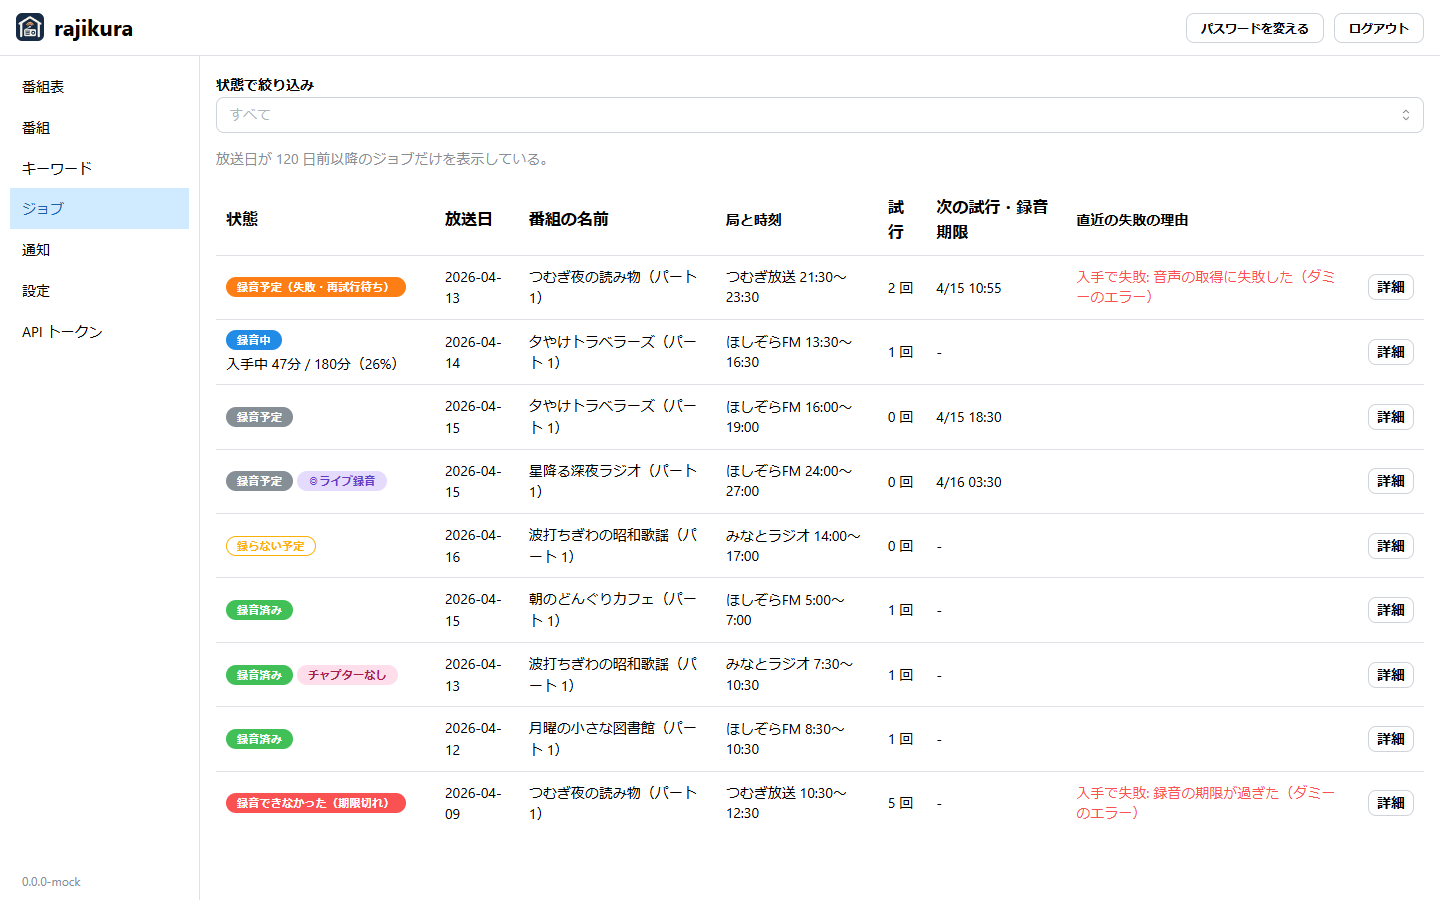
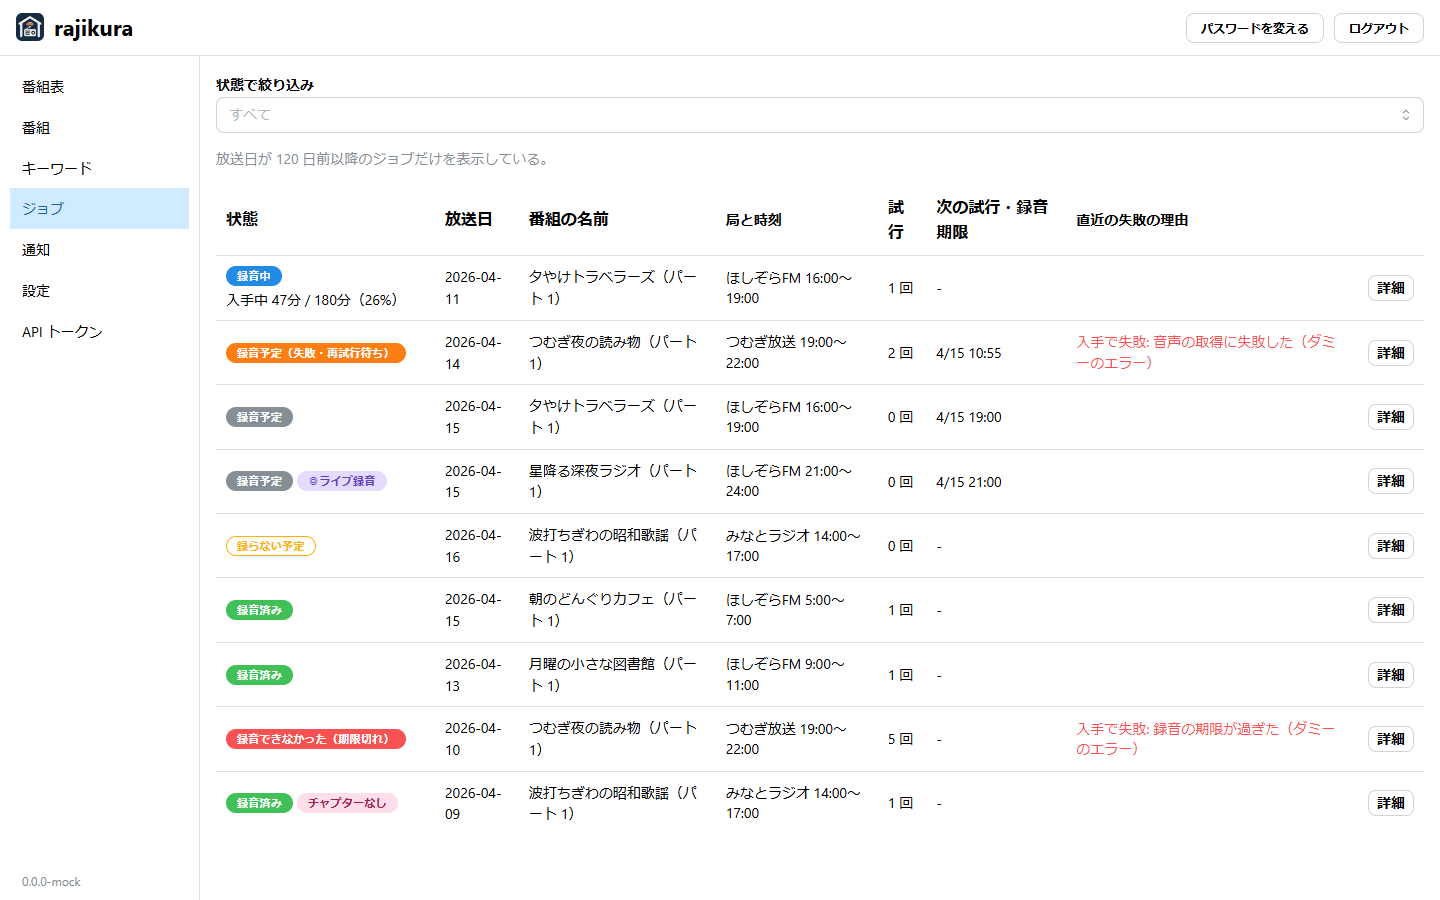
fix: ダミーの通知の応答の形と、番組・ジョブの時刻を番組表に揃える (#7)
- /api/notifications を { notifications: [] } で答え、POST /api/notifications/read だけ何もせず成功で答える
- shows の weekly と next_airing、jobs の枠を、番組表の並びの放送回と同じ局・開始・長さにして画像を撮り直す
- 撮り直しの節を「手元でビルド・テストする」の下へ移す

diff --git a/web/mock/data.ts b/web/mock/data.ts
@@ -98,6 +98,13 @@ export function guideOf(day: string): GuideStation[] {
   });
 }
 
+// 放送日 day（YYYY-MM-DD）の放送日の時刻 hhmm（HH:MM。24:00 以降も書ける）の時刻。番組表の並び（lineups）の時刻と合わせて書く。
+const jst = (day: string, hhmm: string) => {
+  const [h, m] = hhmm.split(":").map(Number);
+  return new Date(new Date(`${day}T00:00:00+09:00`).getTime() + (h * 60 + m) * 60_000).toISOString();
+};
+
+// 番組（shows）の weekly と next_airing、ジョブ（jobs）の stations は、番組表の並び（lineups）の放送回と同じ局・開始時刻・長さにする。
 export const shows: Show[] = [
   {
     name: "朝のどんぐりカフェ",
@@ -105,7 +112,7 @@ export const shows: Show[] = [
     split: "none",
     check_title: true,
     weekly: [{ station: "HOSHIZORA", weekday: 1, start: "05:00" }, { station: "HOSHIZORA", weekday: 3, start: "05:00" }],
-    next_airing: at(60 * 18 + 30),
+    next_airing: jst("2026-04-20", "05:00"),
   },
   {
     name: "月曜の小さな図書館",
@@ -113,7 +120,7 @@ export const shows: Show[] = [
     split: "none",
     check_title: true,
     weekly: [{ station: "HOSHIZORA", weekday: 1, start: "09:00" }],
-    next_airing: at(60 * 24 * 5 - 90),
+    next_airing: jst("2026-04-20", "09:00"),
   },
   {
     name: "夕やけトラベラーズ",
@@ -121,15 +128,15 @@ export const shows: Show[] = [
     split: "join",
     check_title: true,
     weekly: [{ station: "HOSHIZORA", weekday: 3, start: "16:00" }, { station: "HOSHIZORA", weekday: 6, start: "16:00" }],
-    next_airing: at(60 * 5 + 30),
+    next_airing: jst("2026-04-15", "16:00"),
   },
   {
     name: "星降る深夜ラジオ",
     enabled: true,
     split: "none",
     check_title: true,
-    weekly: [{ station: "HOSHIZORA", weekday: 3, start: "00:00" }],
-    next_airing: at(60 * 13 + 30),
+    weekly: [{ station: "HOSHIZORA", weekday: 3, start: "21:00" }],
+    next_airing: jst("2026-04-15", "21:00"),
   },
   {
     name: "波打ちぎわの昭和歌謡",
@@ -137,15 +144,15 @@ export const shows: Show[] = [
     split: "separate",
     check_title: false,
     weekly: [{ station: "MINATO", weekday: 4, start: "14:00" }],
-    next_airing: at(60 * 27 + 30),
+    next_airing: jst("2026-04-16", "14:00"),
   },
   {
     name: "つむぎ夜の読み物",
     enabled: true,
     split: "none",
     check_title: true,
-    weekly: [{ station: "TSUMUGI", weekday: 2, start: "21:00" }, { station: "TSUMUGI", weekday: 5, start: "21:00" }],
-    next_airing: at(60 * 34 + 30),
+    weekly: [{ station: "TSUMUGI", weekday: 2, start: "19:00" }, { station: "TSUMUGI", weekday: 5, start: "19:00" }],
+    next_airing: jst("2026-04-17", "19:00"),
   },
   {
     name: "ゆうびん屋さんのたより",
@@ -173,69 +180,67 @@ const baseJob = {
   lastError: "",
 } satisfies Partial<JobSummary>;
 
-const slotOf = (stationId: string, startOffsetMin: number, minutes: number) => ({
-  stationId,
-  start: at(startOffsetMin),
-  end: at(startOffsetMin + minutes),
-});
 
-const dayOf = (offsetMin: number) => new Date(nowMs + offsetMin * 60_000 + 9 * 3600_000 - 5 * 3600_000).toISOString().slice(0, 10);
+const slotOf = (stationId: string, day: string, from: string, minutes: number) => {
+  const start = jst(day, from);
+  return { stationId, start, end: new Date(new Date(start).getTime() + minutes * 60_000).toISOString() };
+};
 
 export const jobs: JobSummary[] = [
   {
     ...baseJob,
     id: 108,
     showName: "朝のどんぐりカフェ",
-    day: dayOf(-60 * 5),
+    day: "2026-04-15",
     part: 1,
     state: "done",
     attempts: 1,
     chapters: "added",
     rerecordable: true,
     outputPath: "朝のどんぐりカフェ/2026-04-15 朝のどんぐりカフェ.m4a",
-    stations: [slotOf("HOSHIZORA", -60 * 5.5, 120)],
+    stations: [slotOf("HOSHIZORA", "2026-04-15", "05:00", 120)],
   },
   {
     ...baseJob,
     id: 107,
     showName: "夕やけトラベラーズ",
-    day: dayOf(-60 * 20),
+    day: "2026-04-11",
     part: 1,
     state: "running",
     attempts: 1,
     progress: { stage: "fetch", fetchedSeconds: 2820, totalSeconds: 10800 },
-    stations: [slotOf("HOSHIZORA", -60 * 21, 180)],
+    stations: [slotOf("HOSHIZORA", "2026-04-11", "16:00", 180)],
   },
   {
     ...baseJob,
     id: 109,
     showName: "夕やけトラベラーズ",
-    day: dayOf(60 * 5),
+    day: "2026-04-15",
     part: 1,
     state: "waiting",
-    nextAttemptAt: at(60 * 8),
+    nextAttemptAt: jst("2026-04-15", "19:00"),
     deadline: at(60 * 24 * 7),
     skippable: true,
-    stations: [slotOf("HOSHIZORA", 60 * 5.5, 180)],
+    stations: [slotOf("HOSHIZORA", "2026-04-15", "16:00", 180)],
   },
   {
     ...baseJob,
     id: 110,
     showName: "星降る深夜ラジオ",
-    day: dayOf(60 * 13),
+    day: "2026-04-15",
     part: 1,
     state: "waiting",
-    nextAttemptAt: at(60 * 17),
+    nextAttemptAt: jst("2026-04-15", "21:00"),
     deadline: at(60 * 24 * 7),
     live: true,
     skippable: true,
-    stations: [slotOf("HOSHIZORA", 60 * 13.5, 180)],
+    stations: [slotOf("HOSHIZORA", "2026-04-15", "21:00", 180)],
   },
   {
     ...baseJob,
     id: 106,
     showName: "つむぎ夜の読み物",
-    day: dayOf(-60 * 36),
+    day: "2026-04-14",
     part: 1,
     state: "retrying",
     attempts: 2,
@@ -244,56 +249,56 @@ export const jobs: JobSummary[] = [
     deadline: at(60 * 24 * 5),
     lastFailedStage: "fetch",
     lastError: "音声の取得に失敗した（ダミーのエラー）",
-    stations: [slotOf("TSUMUGI", -60 * 37, 120)],
+    stations: [slotOf("TSUMUGI", "2026-04-14", "19:00", 180)],
   },
   {
     ...baseJob,
     id: 105,
     showName: "波打ちぎわの昭和歌謡",
-    day: dayOf(-60 * 24 * 2),
+    day: "2026-04-09",
     part: 1,
     state: "done",
     attempts: 1,
     chapters: "not_added",
     rerecordable: true,
-    outputPath: "波打ちぎわの昭和歌謡/2026-04-13 波打ちぎわの昭和歌謡.m4a",
-    stations: [slotOf("MINATO", -60 * 24 * 2 - 60 * 3, 180)],
+    outputPath: "波打ちぎわの昭和歌謡/2026-04-09 波打ちぎわの昭和歌謡.m4a",
+    stations: [slotOf("MINATO", "2026-04-09", "14:00", 180)],
   },
   {
     ...baseJob,
     id: 104,
     showName: "月曜の小さな図書館",
-    day: dayOf(-60 * 24 * 3),
+    day: "2026-04-13",
     part: 1,
     state: "done",
     attempts: 1,
     chapters: "added",
     rerecordable: true,
-    outputPath: "月曜の小さな図書館/2026-04-12 月曜の小さな図書館.m4a",
-    stations: [slotOf("HOSHIZORA", -60 * 24 * 3 - 60 * 2, 120)],
+    outputPath: "月曜の小さな図書館/2026-04-13 月曜の小さな図書館.m4a",
+    stations: [slotOf("HOSHIZORA", "2026-04-13", "09:00", 120)],
   },
   {
     ...baseJob,
     id: 103,
     showName: "つむぎ夜の読み物",
-    day: dayOf(-60 * 24 * 6),
+    day: "2026-04-10",
     part: 1,
     state: "expired",
     attempts: 5,
     lastFailedStage: "fetch",
     lastError: "録音の期限が過ぎた（ダミーのエラー）",
-    stations: [slotOf("TSUMUGI", -60 * 24 * 6, 120)],
+    stations: [slotOf("TSUMUGI", "2026-04-10", "19:00", 180)],
   },
   {
     ...baseJob,
     id: 111,
     showName: "波打ちぎわの昭和歌謡",
-    day: dayOf(60 * 27),
+    day: "2026-04-16",
     part: 1,
     state: "skipped",
     byPerson: true,
     recordable: true,
-    stations: [slotOf("MINATO", 60 * 27.5, 180)],
+    stations: [slotOf("MINATO", "2026-04-16", "14:00", 180)],
   },
 ];
 

diff --git a/web/mock/plugin.ts b/web/mock/plugin.ts
@@ -1,5 +1,5 @@
 // pnpm dev:mock（vite --mode mock）のときだけ、/api をダミーのデータで答える Vite のプラグイン。
-// rajikura serve にも radiko にもつながらない。読み出し（GET）だけ答え、書き込みは 405 で断る。
+// rajikura serve にも radiko にもつながらない。読み出し（GET）だけ答え、書き込みは 405 で断る。例外は POST /api/notifications/read（通知の画面が開くたびに呼ぶ）だけで、何もせず本物と同じ形（{"marked": 0}）で答える。
 // pnpm build の成果物には入らない（vite.config.ts が mode が mock のときだけ足し、apply も serve に限る）。
 import type { IncomingMessage, ServerResponse } from "node:http";
 import type { Plugin } from "vite";
@@ -21,6 +21,7 @@ function answer(req: IncomingMessage, res: ServerResponse): boolean {
     return true;
   }
   if (!path.startsWith("/api/")) return false;
+  if (req.method === "POST" && path === "/api/notifications/read") return json(res, { marked: 0 }), true;
   if (req.method !== "GET") {
     json(res, { error: "ダミーのデータの口は読み出しだけ答える" }, 405);
     return true;
@@ -51,7 +52,7 @@ function answer(req: IncomingMessage, res: ServerResponse): boolean {
     return json(res, { settings: { library: "D:\\Radio", preset: "jellyfin" }, secrets: {}, library_set: true, unreadable_secrets: [], last_backup_at: null }), true;
   }
   if (path === "/api/notifications/status") return json(res, { unread: 0, failed: 0, anomalies: [], channel: "none" }), true;
-  if (path === "/api/notifications") return json(res, []), true;
+  if (path === "/api/notifications") return json(res, { notifications: [] }), true;
   json(res, { error: "ダミーのデータの口に無い API" }, 404);
   return true;
 }

diff --git a/docs/development.md b/docs/development.md
@@ -90,6 +90,23 @@ CGO_ENABLED=0 GOOS=windows GOARCH=amd64 go build -o rajikura.exe ./cmd/rajikura
 - 止めるのは、exe の名前が `rajikura-tray.exe` のトレイで、置き場所は問わない（`cmd/rajikura/traybin` から起動したトレイも止める）。終わったら「動いていた前のトレイを終了した」と出す。
 - ほかのユーザーのセッションで動くトレイには頼まないので、そのトレイは前の版のまま動き続け、終了して起動し直すか、ログインし直すと新しい版になる。
 
+### README のスクリーンショットを撮り直す
+
+README の冒頭の画像（`docs/images/` の `guide.png`・`jobs.png`・`shows.png`。番組表・ジョブ・番組の PC 幅）は、人の手で撮らず、次のコマンドで作り直す。画面を変えたら、気づいたときに撮り直す（撮り直しを強制する検査は無い）。
+
+```bash
+cd web
+pnpm install
+pnpm screenshots
+```
+
+- 画面に映るのは、`web/mock/data.ts` の架空のダミーのデータだけ（局・番組名・出演者・説明・画像のすべて）。radiko の実際の番組表は映さない（[ADR 0028](adr/0028-publish-as-oss-under-radiko-terms.md)）。
+- `pnpm screenshots`（`web/scripts/screenshots.mjs`）は、ダミーのデータで `/api` に答える Vite の開発サーバー（`vite --mode mock`。`web/mock/plugin.ts`）を立て、ヘッドレスのブラウザで撮る。`rajikura serve` にも radiko にもつながらない。ブラウザの時計は `web/mock/data.ts` の `MOCK_NOW` に固定するので、何度流しても同じ画像になる（ブラウザの描画の違いは除く）。
+- ブラウザは手元の Microsoft Edge（`playwright-core` の `channel: "msedge"`）。ブラウザは別に入れない。Chrome を使うなら環境変数 `SCREENSHOT_CHANNEL=chrome` を付ける。
+- ダミーの画面を自分で見るだけなら `pnpm dev:mock`（http://localhost:5173）。読み出しだけ答え、書き込みの API は 405 で断る（通知の画面が開くたびに呼ぶ `POST /api/notifications/read` だけは、何もせず成功で答える）。
+- ダミーのデータの口は `pnpm dev:mock` のときだけ効き、`pnpm build` の成果物（`serve` に埋め込む Web UI）には入らない（`web/vite.config.ts` が `--mode mock` のときだけプラグインを足し、プラグインは開発サーバーだけに効く）。
+- 画面の型（`GuideAiring`・`JobSummary`・`Show`）を変えたら、`pnpm typecheck` が `web/mock/` の型の食い違いで落ちるので、ダミーのデータを直す。
+
 ## 開発の決まり
 
 - SQLite のドライバは `modernc.org/sqlite`（cgo 不要）。マイグレーションは、埋め込んだ SQL を順に当てる仕組みを自前で書く。
@@ -168,23 +185,6 @@ CGO_ENABLED=0 GOOS=windows GOARCH=amd64 go build -o rajikura.exe ./cmd/rajikura
 | セットアップコード | server の `server.SetupCode`（作るのは `server.NewSetupCode`。ファイルはデータのフォルダの `setup-code.txt`、API は `/api/setup`） |
 | トレイ | `cmd/rajikura-tray`（exe は `rajikura-tray.exe`。接続先とトークンのファイルは `tray.toml` で、読み書きはトレイと `rajikura` の `service install`・`tray install` が共有する `internal/trayconf`。アイコンの状態は `iconState`）。入れる・消すのは `cmd/rajikura/tray_windows.go`（`service` と `tray` が共有する処理）と `cmd/rajikura/tray_command_windows.go`（`tray` のサブコマンド） |
 | 連携 | トレイの受け口は `cmd/rajikura-tray/link.go`（`startLink`、`POST /callback`）、Web UI の画面は `web/src/tray/TrayLinkPage.tsx`（URL は `/tray-link`）。発行するトークンの名前は「トレイ（<name>）」 |
-
-### README のスクリーンショットを撮り直す
-
-README の冒頭の画像（`docs/images/` の `guide.png`・`jobs.png`・`shows.png`。番組表・ジョブ・番組の PC 幅）は、人の手で撮らず、次のコマンドで作り直す。画面を変えたら、気づいたときに撮り直す（撮り直しを強制する検査は無い）。
-
-```bash
-cd web
-pnpm install
-pnpm screenshots
-```
-
-- 画面に映るのは、`web/mock/data.ts` の架空のダミーのデータだけ（局・番組名・出演者・説明・画像のすべて）。radiko の実際の番組表は映さない（[ADR 0028](adr/0028-publish-as-oss-under-radiko-terms.md)）。
-- `pnpm screenshots`（`web/scripts/screenshots.mjs`）は、ダミーのデータで `/api` に答える Vite の開発サーバー（`vite --mode mock`。`web/mock/plugin.ts`）を立て、ヘッドレスのブラウザで撮る。`rajikura serve` にも radiko にもつながらない。ブラウザの時計は `web/mock/data.ts` の `MOCK_NOW` に固定するので、何度流しても同じ画像になる（ブラウザの描画の違いは除く）。
-- ブラウザは手元の Microsoft Edge（`playwright-core` の `channel: "msedge"`）。ブラウザは別に入れない。Chrome を使うなら環境変数 `SCREENSHOT_CHANNEL=chrome` を付ける。
-- ダミーの画面を自分で見るだけなら `pnpm dev:mock`（http://localhost:5173）。読み出しだけ答え、書き込みの API は 405 で断る。
-- ダミーのデータの口は `pnpm dev:mock` のときだけ効き、`pnpm build` の成果物（`serve` に埋め込む Web UI）には入らない（`web/vite.config.ts` が `--mode mock` のときだけプラグインを足し、プラグインは開発サーバーだけに効く）。
-- 画面の型（`GuideAiring`・`JobSummary`・`Show`）を変えたら、`pnpm typecheck` が `web/mock/` の型の食い違いで落ちるので、ダミーのデータを直す。
 
 ## 足したら直す列挙
 
